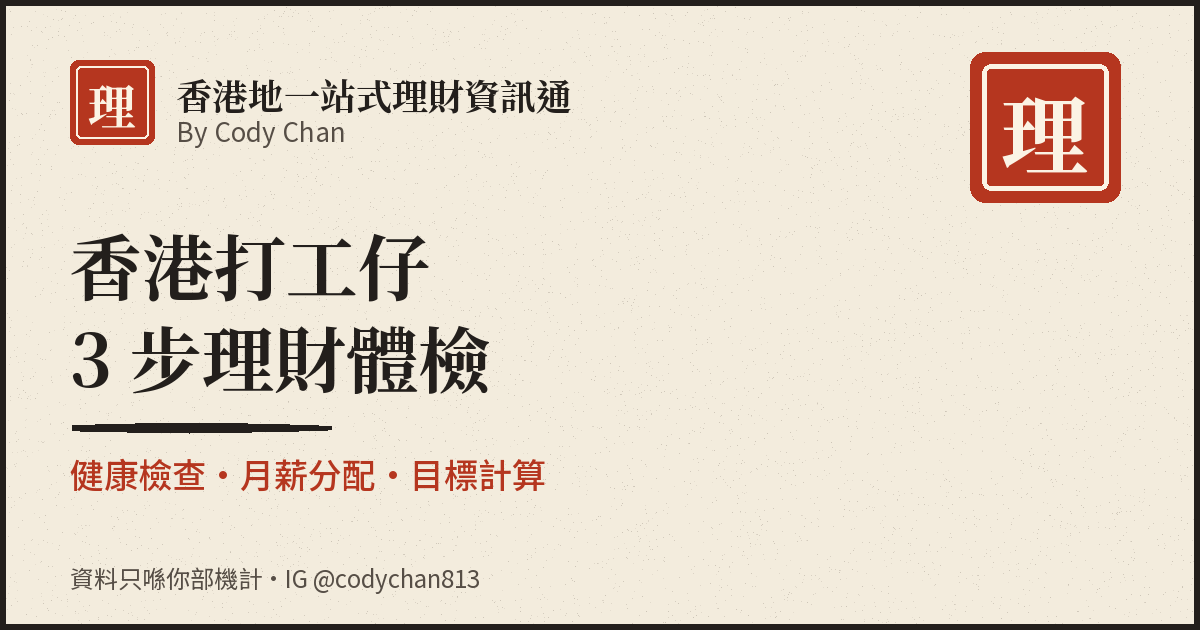
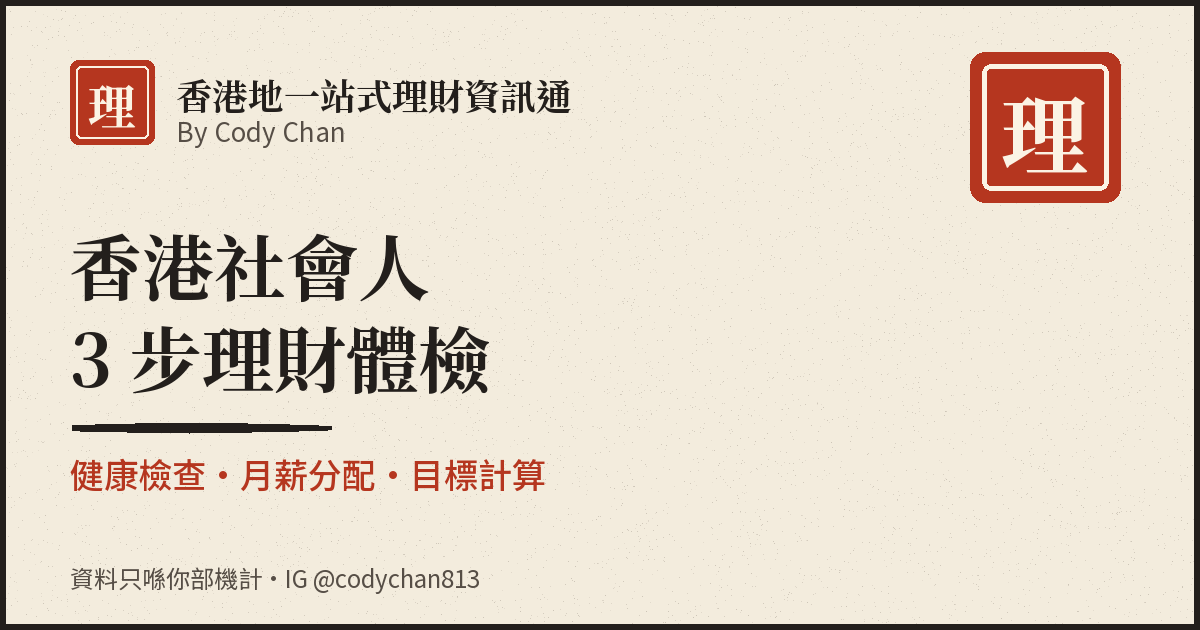
copy: speak to 香港社會人 instead of 打工仔
Cody is self-employed, so the site no longer frames its audience as
employees. Headline, page titles, descriptions, about text, preview
images and the two auto-update prompts now say 香港社會人 (English:
working adults in Hong Kong), or plain wording where that reads better.

Changed region(s): [[0.185, 0.3619, 0.37, 0.4825]]

diff --git a/index.html b/index.html
@@ -3,8 +3,8 @@
 <head>
   <meta charset="utf-8">
   <meta name="viewport" content="width=device-width, initial-scale=1, viewport-fit=cover">
-  <title>香港地一站式理財資訊通 By Cody Chan｜香港打工仔理財計算工具</title>
-  <meta name="description" content="香港打工仔 3 步理財體檢：睇清備用金夠唔夠、月薪扣強積金後每月應該儲幾多、儲 50 萬要幾耐，仲有雙週市場速遞同信用卡回贈整理。">
+  <title>香港地一站式理財資訊通 By Cody Chan｜香港社會人理財計算工具</title>
+  <meta name="description" content="香港社會人 3 步理財體檢：睇清備用金夠唔夠、月薪扣強積金後每月應該儲幾多、儲 50 萬要幾耐，仲有雙週市場速遞同信用卡回贈整理。">
   <meta name="theme-color" content="#F3ECDD">
   <link rel="stylesheet" href="/assets/css/style.css">
 </head>
@@ -12,7 +12,7 @@
 <main>
   <div class="wrap stack">
     <section class="hero landing-hero">
-      <h1>香港打工仔<br>3 步理財體檢</h1>
+      <h1>香港社會人<br>3 步理財體檢</h1>
       <p class="lead">冇咗人工，你嘅積蓄夠撐幾多個月？第 1 步 10 條題、2 分鐘，即刻有分數。唔講大道理，直接計。</p>
       <div class="by"><span data-seal="理"></span>By Cody Chan・香港保險理財顧問</div>
       <ul class="gains" id="gains" aria-label="做完你會有">
@@ -32,7 +32,7 @@
       <div>
         <div class="kicker" style="color:var(--shu);font-weight:700;font-size:14px;letter-spacing:.06em">關於我</div>
         <h2>我係 Cody Chan，香港保險理財顧問。</h2>
-        <p>我留意到好多啱啱出嚟做嘢嘅打工仔，已經睇厭講大道理嘅理財片，但對自己每月可以儲幾多、有冇足夠保障，其實仲未有清晰概念。</p>
+        <p>我留意到好多啱啱出嚟社會做嘢嘅人，已經睇厭講大道理嘅理財片，但對自己每月可以儲幾多、有冇足夠保障，其實仲未有清晰概念。</p>
         <p>所以我整咗呢個網站：用簡單嘅計算工具同有出處嘅真實數字，幫你自己計清楚、睇清楚。計完想再傾，先搵我。</p>
         <p class="muted mt0" style="font-size:12.5px">講明先：我係保險理財顧問。搵我傾係免費，買唔買由你自己決定。</p>
       </div>

diff --git a/en/index.html b/en/index.html
@@ -3,8 +3,8 @@
 <head>
   <meta charset="utf-8">
   <meta name="viewport" content="width=device-width, initial-scale=1, viewport-fit=cover">
-  <title>HK Money Compass by Cody Chan | Money tools for Hong Kong employees</title>
-  <meta name="description" content="A 3-step money check-up for Hong Kong employees: your emergency fund, how much your salary should save after MPF, and how long it takes to reach your goal. Plus market notes and credit card rebates.">
+  <title>HK Money Compass by Cody Chan | Money tools for working adults in Hong Kong</title>
+  <meta name="description" content="A 3-step money check-up for working adults in Hong Kong: your emergency fund, how much your salary should save after MPF, and how long it takes to reach your goal. Plus market notes and credit card rebates.">
   <meta name="theme-color" content="#F3ECDD">
   <link rel="stylesheet" href="/assets/css/style.css">
 </head>
@@ -12,7 +12,7 @@
 <main>
   <div class="wrap stack">
     <section class="hero landing-hero">
-      <h1>A 3-step money check-up<br>for Hong Kong employees</h1>
+      <h1>A 3-step money check-up<br>for working adults in Hong Kong</h1>
       <p class="lead">If your pay stopped, how many months could your savings last? Step 1 is 10 questions, 2 minutes, and you get a score straight away. No lectures. Just the numbers.</p>
       <div class="by"><span data-seal="理"></span>By Cody Chan · Hong Kong insurance and financial planning consultant</div>
       <ul class="gains" id="gains" aria-label="What you get">

diff --git a/en/deals/index.html b/en/deals/index.html
@@ -4,7 +4,7 @@
   <meta charset="utf-8">
   <meta name="viewport" content="width=device-width, initial-scale=1, viewport-fit=cover">
   <title>Deals and benefits: card rebates and a government benefits check | HK Money Compass</title>
-  <meta name="description" content="Deals and benefits for Hong Kong employees: higher-rebate card offers reviewed every two weeks, plus a 12-question check for government benefits you may be missing, such as CEF, WFA, public housing, youth hostels and the transport subsidy, with official links.">
+  <meta name="description" content="Deals and benefits for working adults in Hong Kong: higher-rebate card offers reviewed every two weeks, plus a 12-question check for government benefits you may be missing, such as CEF, WFA, public housing, youth hostels and the transport subsidy, with official links.">
   <meta name="theme-color" content="#F3ECDD">
   <link rel="stylesheet" href="/assets/css/style.css">
 </head>

diff --git a/about/index.html b/about/index.html
@@ -18,7 +18,7 @@
 
     <section class="card">
       <h2>我係邊個？</h2>
-      <p>我係 Cody Chan，香港保險理財顧問。我留意到好多啱啱出嚟做嘢嘅打工仔，已經睇厭講大道理嘅理財片，但對自己每月可以儲幾多、有冇足夠保障，其實仲未有清晰概念。</p>
+      <p>我係 Cody Chan，香港保險理財顧問。我留意到好多啱啱出嚟社會做嘢嘅人，已經睇厭講大道理嘅理財片，但對自己每月可以儲幾多、有冇足夠保障，其實仲未有清晰概念。</p>
       <p>所以我整咗呢個網站：用簡單嘅計算工具同有出處嘅真實數字，幫你自己計清楚、睇清楚。想再傾，可以喺 IG <a href="https://www.instagram.com/codychan813/" target="_blank" rel="noopener">@codychan813</a> 搵我，或者<a href="/book/">預約 1 對 1 理財傾談</a>。</p>
     </section>
 

diff --git a/deals/index.html b/deals/index.html
@@ -4,7 +4,7 @@
   <meta charset="utf-8">
   <meta name="viewport" content="width=device-width, initial-scale=1, viewport-fit=cover">
   <title>優惠福利：信用卡回贈整理同政府福利檢查｜香港地一站式理財資訊通</title>
-  <meta name="description" content="香港打工仔嘅優惠同福利：每兩星期整理高回贈信用卡優惠；再用 12 條問題檢查你有冇錯過持續進修基金、職津、公屋、青年宿舍、交通補貼等政府福利，附官方連結。">
+  <meta name="description" content="香港社會人嘅優惠同福利：每兩星期整理高回贈信用卡優惠；再用 12 條問題檢查你有冇錯過持續進修基金、職津、公屋、青年宿舍、交通補貼等政府福利，附官方連結。">
   <meta name="theme-color" content="#F3ECDD">
   <link rel="stylesheet" href="/assets/css/style.css">
 </head>

diff --git a/updates/index.html b/updates/index.html
@@ -3,7 +3,7 @@
 <head>
   <meta charset="utf-8">
   <meta name="viewport" content="width=device-width, initial-scale=1, viewport-fit=cover">
-  <title>雙週市場速遞：用打工仔語言講市場｜香港地一站式理財資訊通</title>
+  <title>雙週市場速遞：用淺白語言講市場｜香港地一站式理財資訊通</title>
   <meta name="description" content="每兩星期整理一次環球及香港市場大事：股市、利率、油價、央行議息，唔講術語、唔叫你買邊隻，只講對你荷包嘅影響。">
   <meta name="theme-color" content="#F3ECDD">
   <link rel="stylesheet" href="/assets/css/style.css">

diff --git a/salary/index.html b/salary/index.html
@@ -58,7 +58,7 @@
     <div id="next-step"></div>
 
     <section class="callout green" style="font-size:14px">
-      <b>記得預留交稅錢：</b>薪俸稅係每年一次過交，唔喺月薪度扣。打工仔好易一年後先發現要交一大筆，建議喺「必要開支」入面預留每月一份。
+      <b>記得預留交稅錢：</b>薪俸稅係每年一次過交，唔喺月薪度扣。好多人一年後先發現要交一大筆，建議喺「必要開支」入面預留每月一份。
     </section>
 
     <section class="card article">

diff --git a/scripts/make_images.py b/scripts/make_images.py
@@ -17,8 +17,8 @@ PAPER, INK, INK2, SHU, CREAM = (243, 236, 221), (35, 31, 28), (86, 78, 70), (181
 
 # key: (印章字, 中文標題, 中文副題, 英文標題, 英文副題)；長標題用 | 手動斷行
 CARDS = {
-    "home": ("理", "香港打工仔|3 步理財體檢", "健康檢查・月薪分配・目標計算",
-             "A 3-step money check-up|for Hong Kong employees", "Health check · salary split · goal planner"),
+    "home": ("理", "香港社會人|3 步理財體檢", "健康檢查・月薪分配・目標計算",
+             "A 3-step money check-up|for HK working adults", "Health check · salary split · goal planner"),
     "salary": ("薪", "月薪扣強積金，|實際到手幾多？", "月薪分配計算器：50/30/20 即刻分好",
                "After MPF, what do|you actually take home?", "Salary split calculator: 50/30/20 in seconds"),
     "goal": ("標", "想儲 50 萬要幾耐？", "理財目標計算機：唔同回報率一次過比較",

diff --git a/scripts/benefits-quarterly-prompt.md b/scripts/benefits-quarterly-prompt.md
@@ -4,7 +4,7 @@
 
 ## 目標
 
-核對 `data/benefits.json` 入面 27 項政府及半官方福利（對象：18 至 40 歲香港打工仔同佢哋嘅父母），確保資格、金額、限額同申請方法係**目前官方公布嘅最新版本**。網站 `/deals/` 嘅「福利檢查」分頁直接用呢個檔，中英文都由呢個檔生成。
+核對 `data/benefits.json` 入面 27 項政府及半官方福利（對象：18 至 40 歲香港社會人同佢哋嘅父母），確保資格、金額、限額同申請方法係**目前官方公布嘅最新版本**。網站 `/deals/` 嘅「福利檢查」分頁直接用呢個檔，中英文都由呢個檔生成。
 
 ## 步驟
 
@@ -32,7 +32,7 @@
 - **絕對唔可以編造**任何金額、限額、日期或資格。核實唔到就保留原有數字，喺匯報講明。
 - 未正式落實嘅措施（例如有待立法會通過）要寫明「建議」或「有待通過」。
 - 唔好改 `benefits.js` 或其他檔案。
-- 用打工仔睇得明嘅講法，唔好推銷任何產品。
+- 用一般人睇得明嘅講法，唔好推銷任何產品。
 
 ## 英文版
 

diff --git a/scripts/deals-refresh-prompt.md b/scripts/deals-refresh-prompt.md
@@ -4,7 +4,7 @@
 
 ## 目標
 
-更新 `data/deals.json`，為香港打工仔整理**目前有效、回贈較高**嘅信用卡及消費平台優惠，涵蓋五個類別：餐飲（dining）、網購（online）、交通（transport）、旅遊（travel）、超市（supermarket）。
+更新 `data/deals.json`，為香港社會人整理**目前有效、回贈較高**嘅信用卡及消費平台優惠，涵蓋五個類別：餐飲（dining）、網購（online）、交通（transport）、旅遊（travel）、超市（supermarket）。
 
 ## 步驟
 
